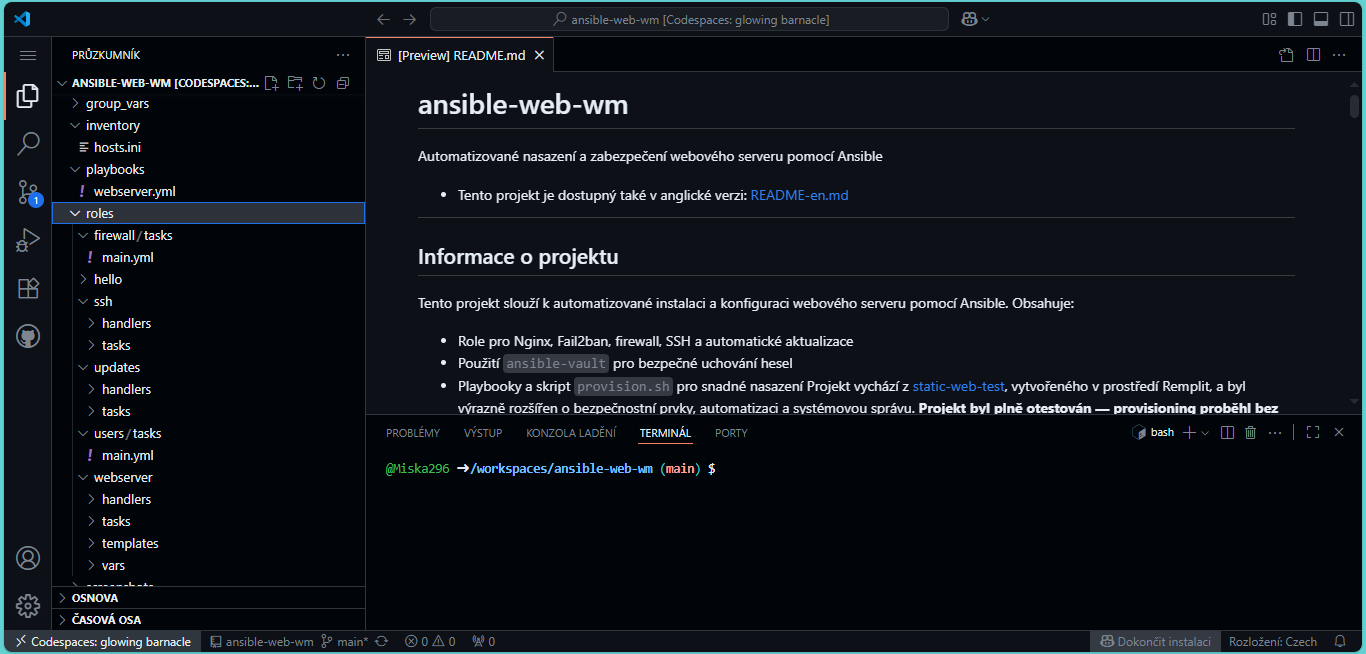
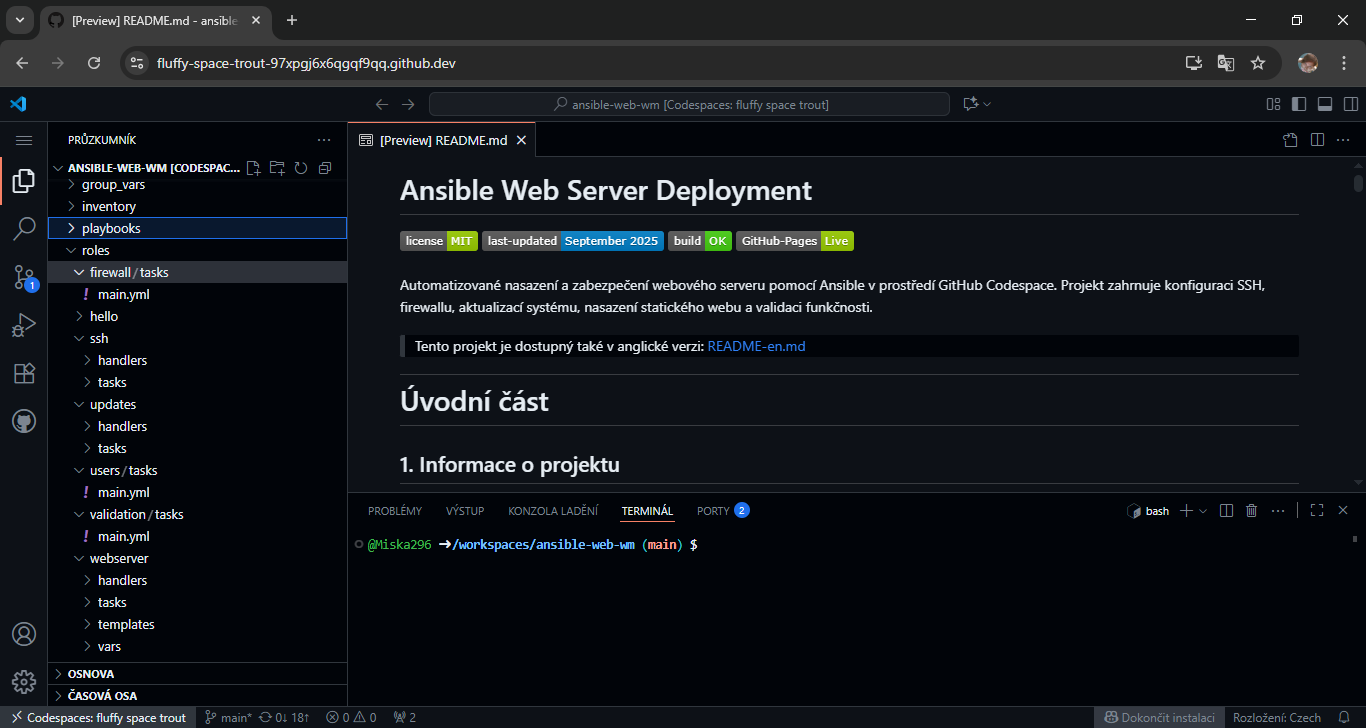
aktualizovane screeny

Changed region(s): [[0.0, 0.0, 1.0, 1.0], [0.246, 0.4587, 0.9531, 0.7645]]

diff --git a/README.md b/README.md
@@ -192,14 +192,14 @@ Po dokončení provisioning proveďte následující kontroly:
    ```bash
    fail2ban-client status
    ```
-- Ansible playbook proběhl bez chyb:
+- Ansible playbook proběhl bez chyb:  
 Sledujte výstup v terminálu – `failed=0` potvrzuje úspěch
 
 ![Výstup provisioning](screenshots/provisioning-output.png)
 *Úspěšné dokončení provisioning (`failed=0`)*
 
 Webová stránka byla úspěšně nasazena a je dostupná na veřejné adrese v GitHub Codespace:  
-[glowing-barnacle-q7xw5pvxvv4jhx6jg-80.app.github.dev](https://glowing-barnacle-q7xw5pvxvv4jhx6jg-80.app.github.dev/)
+[fluffy-space-trout-97xpgj6x6qgqf9qq-80.app.github.dev](https://fluffy-space-trout-97xpgj6x6qgqf9qq-80.app.github.dev/)
 
 > **Upozornění:** Veřejná URL funguje až po úspěšném provisioning a zveřejnění portu 80 v Codespace.
 
